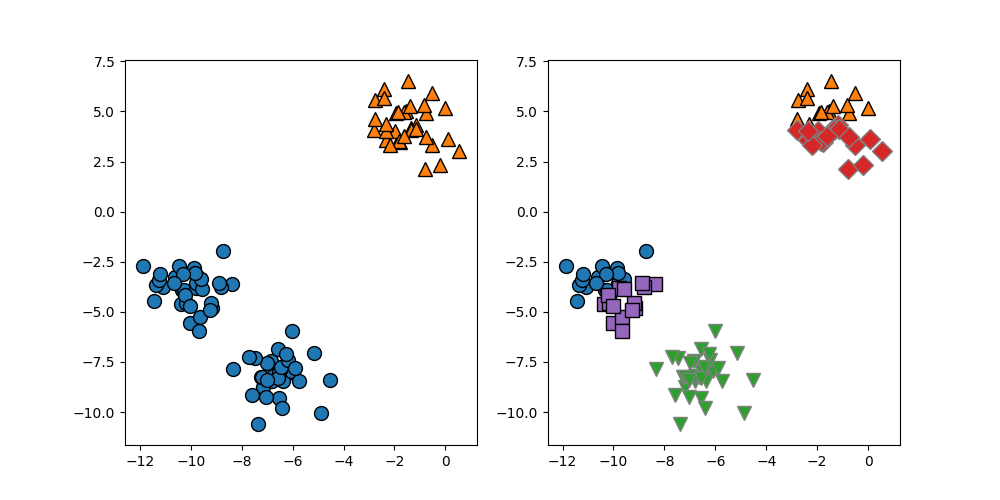
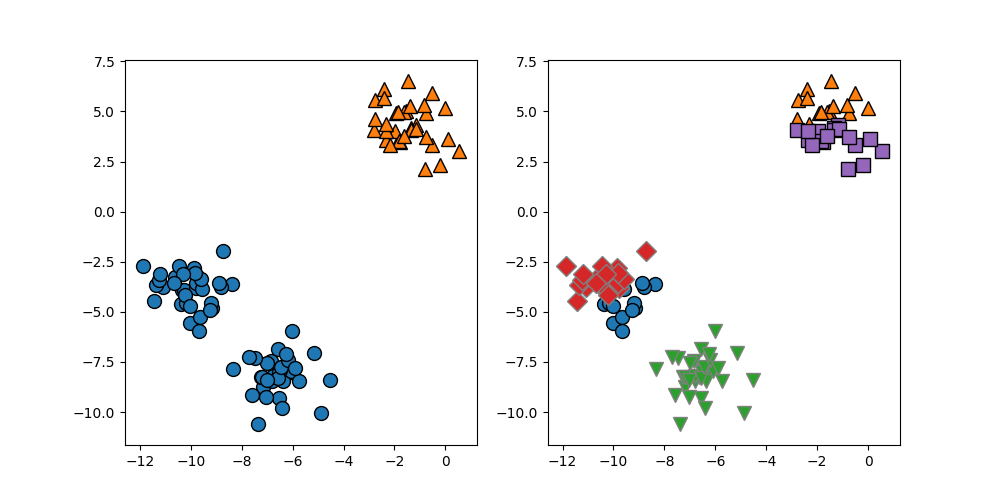
k-means bad practice

Changed region(s): [[0.558, 0.48, 0.682, 0.69], [0.775, 0.24, 0.899, 0.36]]

diff --git a/k_means/bad_practice.py b/k_means/bad_practice.py
@@ -1,0 +1,21 @@
+import matplotlib.pyplot as plt
+import mglearn
+from sklearn.cluster import KMeans
+from sklearn.datasets import make_blobs
+
+
+def execute():
+    X_varied, y_varied = make_blobs(n_samples=200,
+                                    cluster_std=[1.0, 2.5, 0.5],
+                                    random_state=170)
+    y_pred = KMeans(n_clusters=3,random_state=0).fit_predict(X_varied)
+
+    fig = plt.figure()
+    mglearn.discrete_scatter(X_varied[:,0],X_varied[:,1],y_pred)
+    plt.legend(["cluster 0","cluster 1","cluster2"],loc='best')
+    plt.xlabel("Feature 0")
+    plt.ylabel("Feature 1")
+    fig.savefig('k_means/bad_practice.png')
+
+
+

diff --git a/main.py b/main.py
@@ -1,3 +1,4 @@
-from k_means import k_means
+from k_means import k_means, bad_practice
 
 k_means.execute()
+bad_practice.execute()
